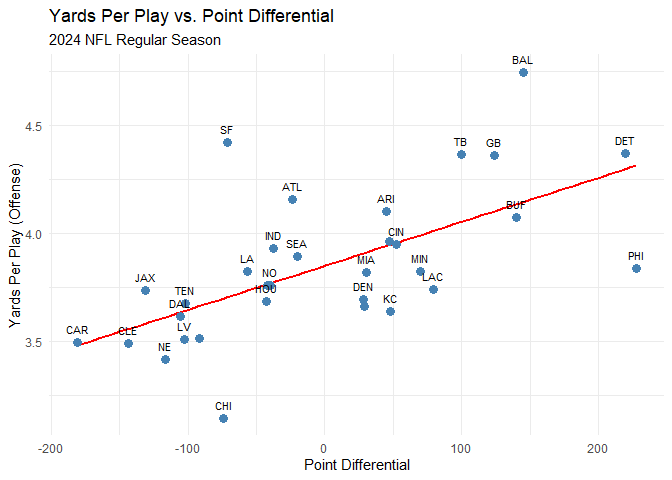
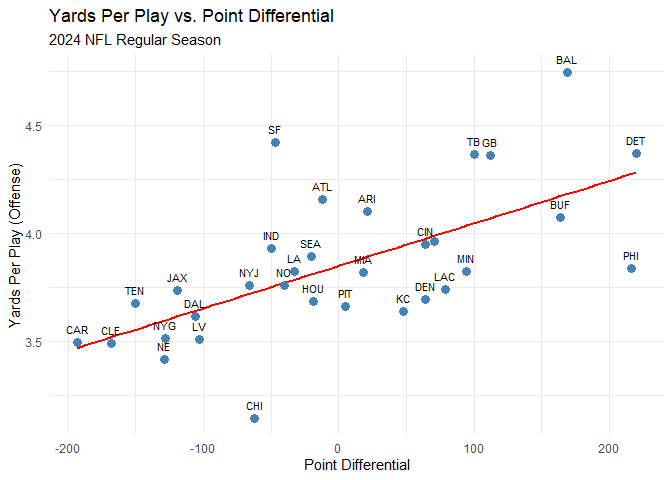
yurrr

diff --git a/README.md b/README.md
@@ -2,6 +2,34 @@ Analysis on NFL Play-By-Play Data
 ================
 Nathan Krieger, Caleb Moe
 
+\##Introduction
+
+The modern NFL is defined by information; every snap generates data that
+can explain why teams win or lose. While traditional box scores tell us
+what happened, play-by-play (PBP) analysis reveals how and why it
+happened. This project leverages granular PBP data from the 2024 season
+to deconstruct the decision-making processes that separate elite
+contenders from struggling franchises.
+
+Our analysis explores what makes an NFL team good and what makes them
+bad.
+
+Point Differential: A comparative analysis of the Top 5 and Bottom 5
+teams by point differential.
+
+Offensive Effectiveness: Measuring offensive performance through Yards
+Per Play (YPP), conversion rates, and more.
+
+Defensive Effectiveness: Measuring defensive performance through Yards
+Allowed, starting field positions, and more.
+
+By isolating these variables, we aim to identify the patterns that
+define success in the 2024 NFL season.
+
+\##Data
+
+### Retrieving dataset
+
 ``` r
 pbp <- readr::read_csv("https://nflsavant.com/pbp_data.php?year=2024")
 ```
@@ -20,52 +48,34 @@ pbp <- readr::read_csv("https://nflsavant.com/pbp_data.php?year=2024")
     ## • `` -> `...17`
     ## • `` -> `...18`
 
-**Introduction**
+Our analysis uses play-by-play data from the 2024 NFL season sourced
+from NFLsavant.com, a publicly accessible resource containing detailed
+information for every offensive snap. The dataset includes 45 variables.
+The relavent variables are:
 
-The NFL has become increasingly data-driven, and play-by-play (PBP)
-information provides one of the richest views into how teams behave on
-the field. In recent years, analysts have used PBP data to uncover
-trends such as fourth-down aggression, pass-rate over expectation, route
-combinations, motion usage, and situational efficiency.
+GameId: The ID of the current game.
 
-Our project explores play-by-play trends across the NFL, focusing on how
-offensive decision-making and performance vary by:
+Quarter: The current quarter.
 
-Down & distance
+Minute: The current minute in the quarter.
 
-Field position
+Second: The current second of the minute.
 
-Play type (run/pass)
+YardLine: What yardline the team is on.
 
-Quarter & game situation
+Offense Team: The team on offense.
 
-Score differential
+Defense Team: The team on defense.
 
-Team tendencies
+Description: Explains what happened on the play and the play’s outcomes.
 
-The goal is to identify meaningful behavioral patterns and performance
-outcomes that can help explain how modern offenses operate.
+PlayType: The play type. Can be pass or run.
 
-We also evaluate the robustness of our findings with multiple approaches
-and highlight unintuitive results requiring further investigation.
+IsInterception: Shows if the play resulted in an interception.
 
-**Data**
+Formation: Shows the offensive formation for the current play.
 
-Our analysis uses play-by-play data from NFLsavant.com, a publicly
-accessible resource containing detailed information for every offensive
-snap. The dataset includes 45 variables such as:
-
-GameId
-
-Quarter
-
-Minute
-
-YardLine
-
-Formation
-
-And many more…
+\##Cleaning The Data
 
 ``` r
 # data exploration
@@ -351,45 +361,60 @@ build_scores <- function(data) {
     )))
   
   # 1) Compute play-level scoring + PlayIndex
-  data_scored <- data %>%
+   data_scored <- data %>%
     arrange(GameId, Quarter, desc(Minute), desc(Second)) %>%  # correct time order
     group_by(GameId) %>%
     mutate(
-      PlayIndex = row_number(),
-      
+      PlayIndex  = row_number(),
       desc_lower = tolower(Description),
       
-      # Identify punt-return touchdowns:
-      #    - PlayType == "PUNT" (adjust if your column is different)
-      #    - Touchdown on that play
+      # --- Identify different kinds of defensive TDs ---
+      # Punt return TD
       is_punt_td = (PlayType == "PUNT" | str_detect(desc_lower, " punt")) &
                    IsTouchdown == 1,
       
-      # Offensive TDs = all TDs that are NOT punt-return TDs
-      OffTDPoints = if_else(IsTouchdown == 1 & !is_punt_td, 6L, 0L),
+      # Interception return TD (pick-six)
+      is_int_td  = IsTouchdown == 1 & IsInterception == 1,
       
-      # Defensive TDs = punt-return TDs
-      DefTDPoints = if_else(is_punt_td, 6L, 0L),
+      # Blocked kick returned for TD (rough heuristic)
+      is_block_td = str_detect(desc_lower, "blocked") & IsTouchdown == 1,
       
-      # Base offensive scoring (non-TD parts still go to offense)
+      # Fumble return TD (rough heuristic)
+      is_fumble_ret_td = str_detect(desc_lower, "fumble") &
+                         str_detect(desc_lower, "return") &
+                         IsTouchdown == 1,
+      
+      # Defensive TD if any of the above
+      is_def_td = is_punt_td | is_int_td | is_block_td | is_fumble_ret_td,
+      
+      # Offensive TDs = all TDs that are NOT defensive TDs
+      OffTDPoints = if_else(IsTouchdown == 1 & !is_def_td, 6L, 0L),
+      
+      # Defensive TDs = all defensive TDs
+      DefTDPoints = if_else(is_def_td, 6L, 0L),
+      
+      # --- Offensive scoring on the play ---
       OffPointsPlay =
         OffTDPoints +
         if_else(FieldGoalResult == "GOOD", 3L, 0L) +
         if_else(ExtraPointResult == "GOOD", 1L, 0L) +
         if_else(IsTwoPointConversionSuccessful == 1 & DefensiveTwoPoint == 0, 2L, 0L),
       
-      # Base defensive scoring (safeties, defensive 2-pt returns, punt TDs)
+      # --- Defensive scoring on the play ---
       DefPointsPlay =
         if_else(IsSafety == 1, 2L, 0L) +
         if_else(DefensiveTwoPoint == 1, 2L, 0L) +
         DefTDPoints,
       
+      # Wipe scoring on no-play rows (except safeties)
       OffPointsPlay = if_else(IsNoPlay == 1, 0L, OffPointsPlay),
-
       DefPointsPlay = if_else(IsNoPlay == 1 & IsSafety != 1, 0L, DefPointsPlay)
     ) %>%
     ungroup() %>%
-    select(-desc_lower, -is_punt_td, -OffTDPoints, -DefTDPoints)
+    select(
+      -desc_lower, -is_punt_td, -is_int_td, -is_block_td, -is_fumble_ret_td,
+      -is_def_td, -OffTDPoints, -DefTDPoints
+    )
   
   # 2) Long-format team scoring table
   team_scores_long <- data_scored %>%
@@ -509,7 +534,7 @@ pbp %>%
     ## #   IsChallengeReversed <dbl>, Challenger <lgl>, IsMeasurement <dbl>, …
 
 ``` r
-#we might be ****ed: (5:00) (SHOTGUN) 9-B.YOUNG SCRAMBLES UP THE MIDDLE TO NO 1 FOR 2 YARDS (29-P.ADEBO). FUMBLES (29-P.ADEBO), RECOVERED BY CAR-15-J.MINGO AT NO 1. THE REPLAY OFFICIAL REVIEWED THE SHORT OF THE GOAL LINE RULING, AND THE PLAY WAS REVERSED. (SHOTGUN) 9-B.YOUNG SCRAMBLES UP THE MIDDLE FOR 3 YARDS, TOUCHDOWN. 
+#we might be in trouble: (5:00) (SHOTGUN) 9-B.YOUNG SCRAMBLES UP THE MIDDLE TO NO 1 FOR 2 YARDS (29-P.ADEBO). FUMBLES (29-P.ADEBO), RECOVERED BY CAR-15-J.MINGO AT NO 1. THE REPLAY OFFICIAL REVIEWED THE SHORT OF THE GOAL LINE RULING, AND THE PLAY WAS REVERSED. (SHOTGUN) 9-B.YOUNG SCRAMBLES UP THE MIDDLE FOR 3 YARDS, TOUCHDOWN. 
 
 #that text displays how even when "reversed" occurs, it doesn't necessarily mean the touchdown was reversed... I have no clue what to do.
 
@@ -632,12 +657,12 @@ final_scores
     ##  2 2024090600 GB        29 PHI       34
     ##  3 2024090800 ATL       10 PIT       18
     ##  4 2024090801 BUF       34 ARI       28
-    ##  5 2024090802 CHI       18 TEN       23
+    ##  5 2024090802 CHI       24 TEN       17
     ##  6 2024090803 NE        16 CIN       10
     ##  7 2024090804 HOU       29 IND       27
     ##  8 2024090805 MIA       20 JAX       17
     ##  9 2024090806 CAR       10 NO        47
-    ## 10 2024090807 MIN       21 NYG       13
+    ## 10 2024090807 MIN       27 NYG        7
     ## # ℹ 274 more rows
 
 ``` r
@@ -1525,6 +1550,33 @@ defense_ypp %>%
 ```
 
 ![](README_files/figure-gfm/unnamed-chunk-34-1.png)<!-- -->
+
+``` r
+defense_ypp_all <- pbp %>%
+  group_by(DefenseTeam) %>%
+  summarize(YardsAllowed = mean(Yards, na.rm = TRUE), .groups = "drop")
+
+# Join: ALL teams' defensive YPP with point differential
+defense_scatter_data <- team_differential %>%
+  inner_join(defense_ypp_all, by = c("Team" = "DefenseTeam"))
+
+# Scatter Plot: Yards Allowed vs Point Differential
+ggplot(defense_scatter_data, aes(x = PointDiff, y = YardsAllowed)) +
+  geom_smooth(method = "lm", color = "red", se = FALSE) +
+  geom_point(color = "darkgreen", size = 3) +
+  geom_text(aes(label = Team), vjust = -1, size = 3, check_overlap = TRUE) +
+  labs(
+    title = "Defensive Yards Allowed vs. Point Differential",
+    subtitle = "Lower Yards Allowed = Better Defense",
+    x = "Point Differential",
+    y = "Avg Yards Allowed Per Play"
+  ) +
+  theme_minimal()
+```
+
+    ## `geom_smooth()` using formula = 'y ~ x'
+
+![](README_files/figure-gfm/unnamed-chunk-34-2.png)<!-- -->
 
 ``` r
 # Calculate Havoc Rate (Sacks + INTs per Dropback)
